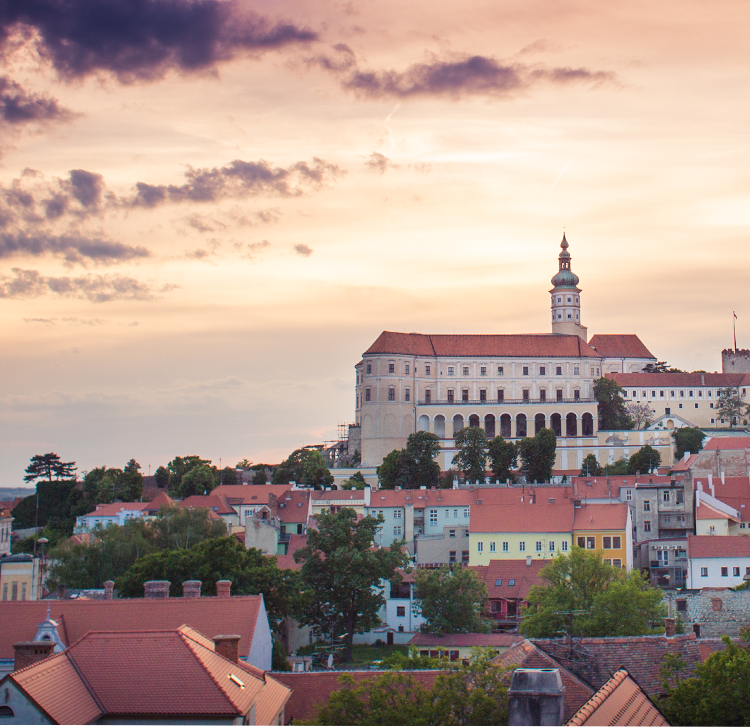
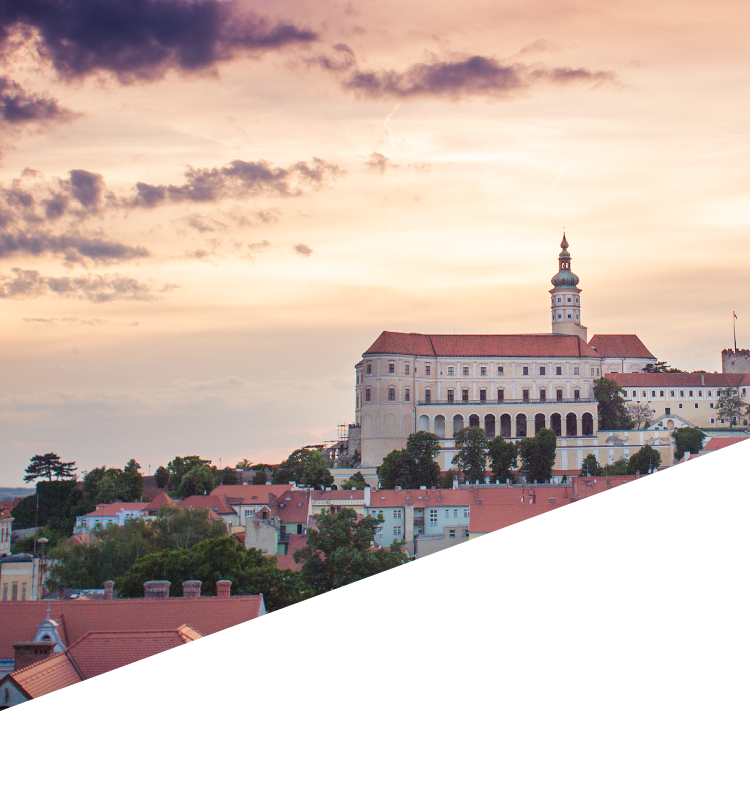
added styles

diff --git a/public/js/controllers/HighlightsController.js b/public/js/controllers/HighlightsController.js
@@ -67,13 +67,16 @@ export default React.createClass({
             <figure className="stage-background">
               <img className="stage-background-img" src="img/img_czech.png" alt="" />
             </figure>
-            <h1 className="stage-headline rotate"><span className="box-shadow"><span>Geil, ein Hackathon! Da bin ich voll dabei!</span></span></h1>
+            <h1 className="stage-headline rotate"><span className="box-shadow"><span>Geil, ein Hackathon!<br />Da bin ich dabei!</span></span></h1>
             <figure className="stage-profile small-4">
               <figcaption className="stage-profile-name">{ this.state.user.username }</figcaption>
               <img className="stage-profile-img" src="//lorempixel.com/45/45/people" />
             </figure>
-            <div className="stage-player rotate">
-              <iframe width="100%" height="166" scrolling="no" frameBorder="no" src="//w.soundcloud.com/player/?url=https%3A//api.soundcloud.com/tracks/25440642&amp;color=ff5500&amp;auto_play=false&amp;hide_related=false&amp;show_comments=true&amp;show_user=true&amp;show_reposts=false"></iframe>
+            <div className="stage-player">
+            <div className="rotate">
+                <img src="img/img_soundcloud_wave2.png" alt="" />
+                <div className="play-button"></div>
+            </div>
             </div>
           </div>
         </header>

diff --git a/public/scss/modules/_header.scss b/public/scss/modules/_header.scss
@@ -6,20 +6,14 @@
     width: 100%;
     overflow: hidden;
     text-align: center;
-    .stage-background-img {
-      position: absolute;
-      min-height: 750px;
-      left: 50%;
-      transform: translate(-50%,0);
-    }
   }
   .stage-headline {
-    font-size: 56px;
+    font-size: 28px;
     font-weight: 800;
-    line-height: 75px;
+    line-height: 40px;
     max-width: 75%;
     position: absolute;
-    top: 45%;
+    top: 100px;
     left: 0;
     .box-shadow {
       background: #fff;
@@ -53,11 +47,28 @@
   }
   .stage-player {
     position: absolute;
-    left: 0;
-    bottom: 10px;
-    width: 100%;
-    height: 166px;
-    box-shadow: 100px 200px 0px 200px #fff;
+    left: -100px;
+    bottom: -236px;
+    width: 1079px;
+    height: 450px;
+    overflow: hidden;
+    .play-button {
+      position: absolute;
+      background: url("/img/btn_play_normal.png") no-repeat;
+      height: 96px;
+      width: 97px;
+      top: 128px;
+      left: 87px;
+      transform: rotate(20deg);
+      transition: background 0.5s ease;
+      &:hover {
+        background: url("/img/btn_play_hover.png") no-repeat;
+      }
+    }
+    .rotate {
+      width: 1391px;
+      height: 354px;
+    }
   }
   .rotate {
     transform: rotate(-20deg);

diff --git a/public/scss/modules/_feed.scss b/public/scss/modules/_feed.scss
@@ -37,10 +37,16 @@
     text-align: right;
     vertical-align: top;
     margin: 0 0 20px;
+    span {
+      display: block;
+      float: left;
+      width: 80%;
+      padding-right: 20px;
+    }
     img {
+      display: block;
       height: 48px;
       width: 48px;
-      margin-left: 20px;
     }
   }
 }
